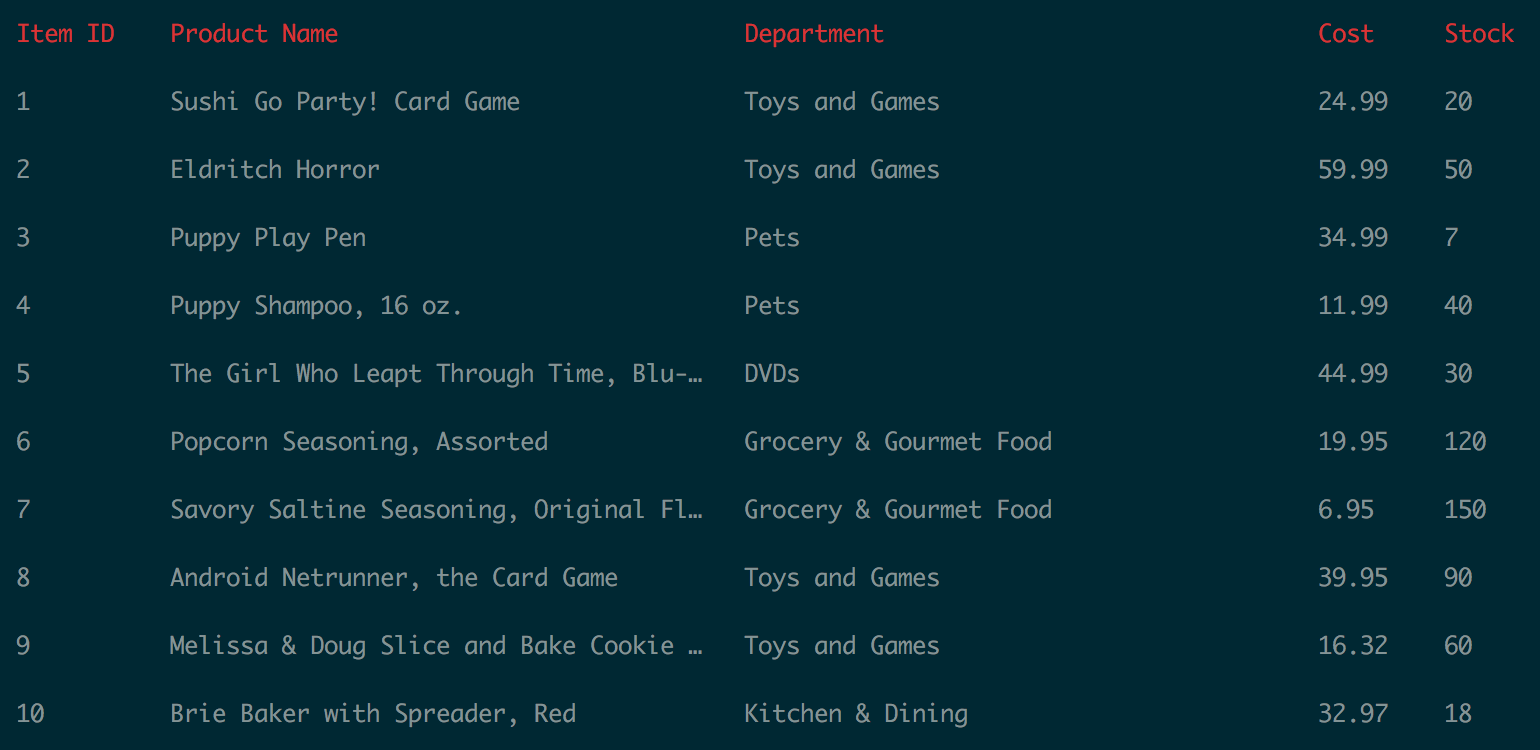
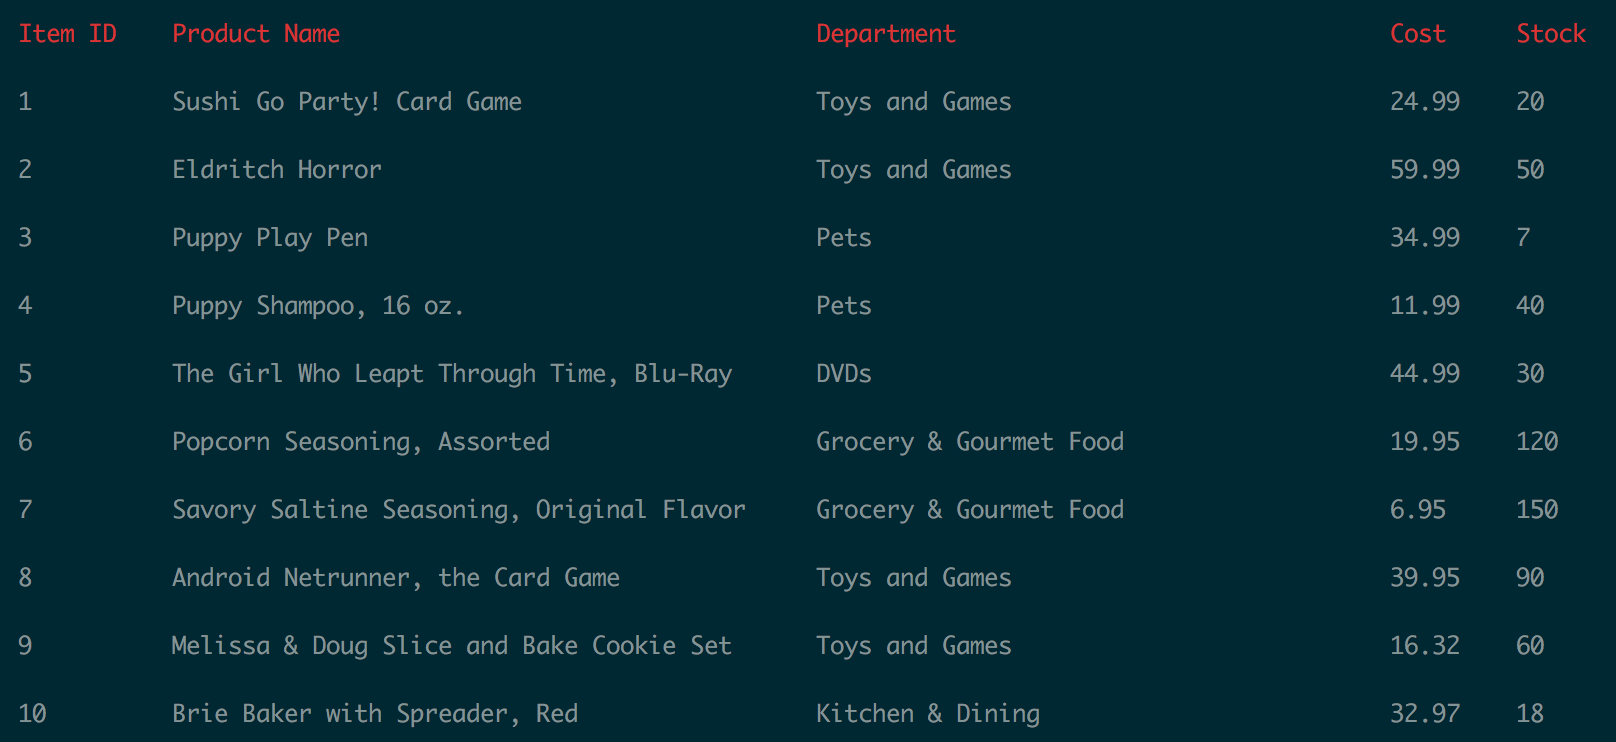
Adjusted my screenshot for readme

diff --git a/bamazon.js b/bamazon.js
@@ -19,7 +19,7 @@ connection.connect(function(err) {
 function printStuff(res) {
 	var table = new Table({
 		head: ['Item ID', 'Product Name', 'Department', 'Cost', 'Stock']
-		, colWidths: [10, 40, 40, 8, 8]
+		, colWidths: [10, 45, 40, 8, 8]
 	});
 	for (var i = 0; i < res.length; i++) {
 		table.push([res[i].itemID, res[i].product_name, res[i].department_name, res[i].item_cost, res[i].stock_quantity]);

diff --git a/README.md b/README.md
@@ -2,5 +2,5 @@
 Creating an Amazon-like storefront using MySQL, the MySQL NPM Package, and the Prompt Package.  
 The application will take in orders from customers and deplete from the store's total supplies.
 
-Here is what my storefront looks like:
+Initializing node bamazon.js in the command line brings up the storefront:
 ![Screenshot](/bamazon-screen.png)
